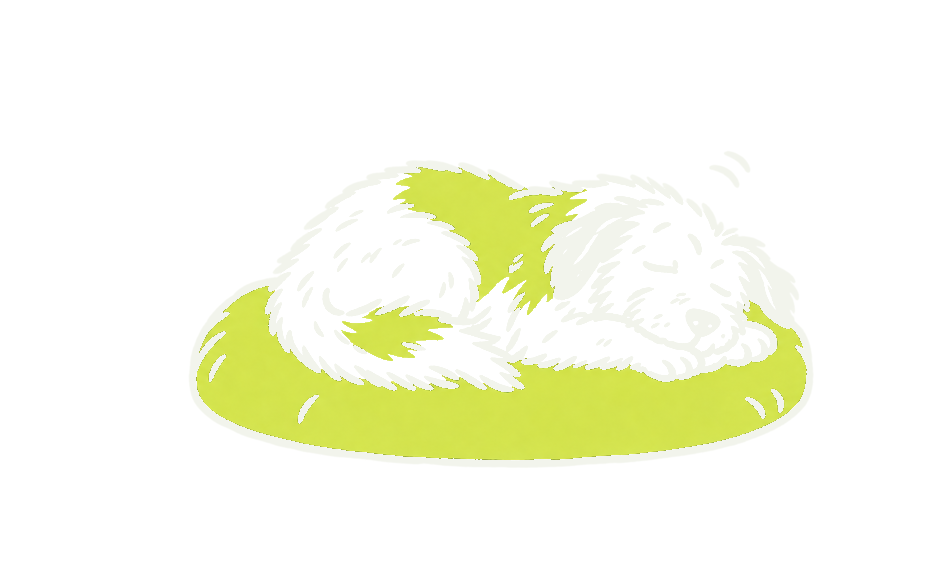
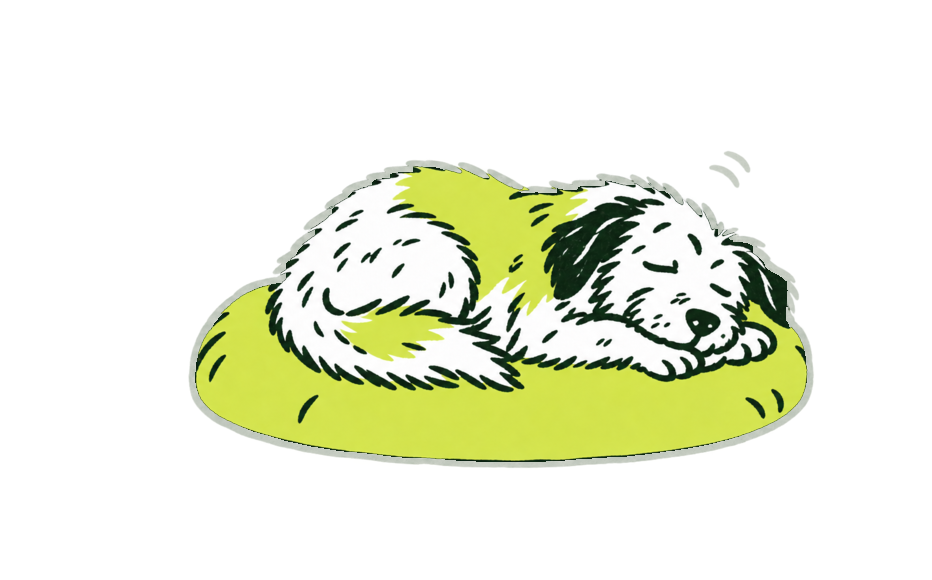
Tag, lead, ball and resting on dark keep the white coat
Same pixel pass as papers-shell: white coat, ink inner lines, chalk outline.
Decision in 05-illustration (Fall 2).

Changed region(s): [[0.1867, 0.2793, 0.8712, 0.8069], [0.7468, 0.2483, 0.809, 0.3103], [0.3112, 0.6828, 0.3423, 0.7138]]

diff --git a/guide/05-illustration.md b/guide/05-illustration.md
@@ -35,7 +35,7 @@ Alle Posen sind so beschnitten, dass sie etwa gleich hoch stehen. Seitenverhält
 
 Jede Pose hat eine `*-shell.png`: helle Linie (Kreide), Fell ausgespart, dieselben Filzflächen. Sie gehört auf die Kleeschale und auf jede dunkle Fläche, weil Tintenlinien dort verschwinden. In der App wählt `Illustration` im Dunkelmodus automatisch die Shell-Variante. Die Originale mit weißem Fell gehören auf Weiß und Kleeboden.
 
-Nie ein Original auf Dunkel, nie eine Shell-Variante auf Hell. Ausnahmen `papers-shell.png`, `sniffing-shell.png` und `bowl-shell.png`: Fell und Zettel bleiben weiß, nur die Außenlinie wird Kreide (siehe Entscheidungen unten).
+Nie ein Original auf Dunkel, nie eine Shell-Variante auf Hell. Ausnahmen `papers-shell.png`, `sniffing-shell.png`, `bowl-shell.png`, `tag-shell.png`, `lead-shell.png`, `ball-shell.png` und `resting-shell.png`: Fell und Zettel bleiben weiß, nur die Außenlinie wird Kreide (siehe Entscheidungen unten). Ausgespart bleiben nur noch `zoomie-shell.png` und `listening-shell.png`.
 
 Für die Website liegen unter `assets/illustrations/web/` WebP-Kopien (höchstens 1600 px breit, die Wiese 2880 px), aus den PNG erzeugt; die Website kopiert nur diese.
 
@@ -78,3 +78,8 @@ Kontext: Auf der Website stehen Sniffing und Bowl in der dunklen KI-Sektion, dir
 Entscheidung: `sniffing-shell.png` und `bowl-shell.png` bekommen dieselbe Behandlung wie `papers-shell.png`: Fell weiß, innere Linien Tinte, Außenlinie Kreide. Die übrigen Shell-Varianten bleiben vorerst ausgespart, bis die App entschieden hat.
 Verworfen: alle Shell-Varianten auf einmal umstellen (ändert jeden dunklen App-Zustand ohne Prüfung), nur die Website-Kopien ändern (die Website kopiert die Marke byte-genau).
 Web: namelessjames/frappies-web#13.
+
+### 2026-10-21: Tag, Lead, Ball und Resting auf Dunkel wie der Zettelhaufen
+Kontext: Im Dunkelmodus der Website stehen Tag, Lead, Ball und Resting noch mit ausgespartem Fell neben Sniffing und Bowl mit weißem Fell. Der Inhaber will alle Hunde der Website gleich. Fall 2 (bestehende Shell-Varianten ändern sich; die App nutzt sie im Dunkelmodus).
+Entscheidung: `tag-shell.png`, `lead-shell.png`, `ball-shell.png` und `resting-shell.png` bekommen dieselbe Behandlung: Fell weiß, innere Linien Tinte, Außenlinie Kreide. Zoomie und Listening folgen, wenn die App sie braucht.
+Verworfen: nur die Website-Kopien ändern (die Website kopiert die Marke byte-genau).
